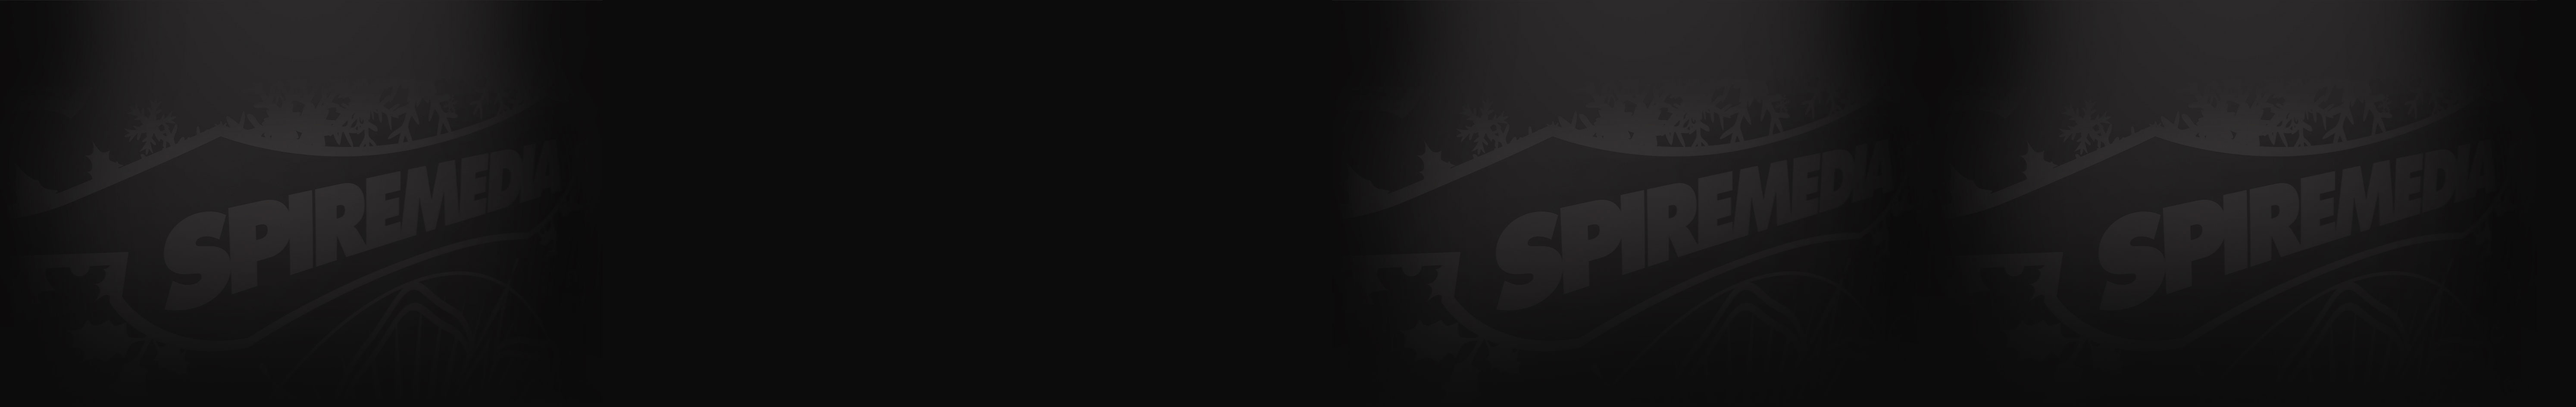
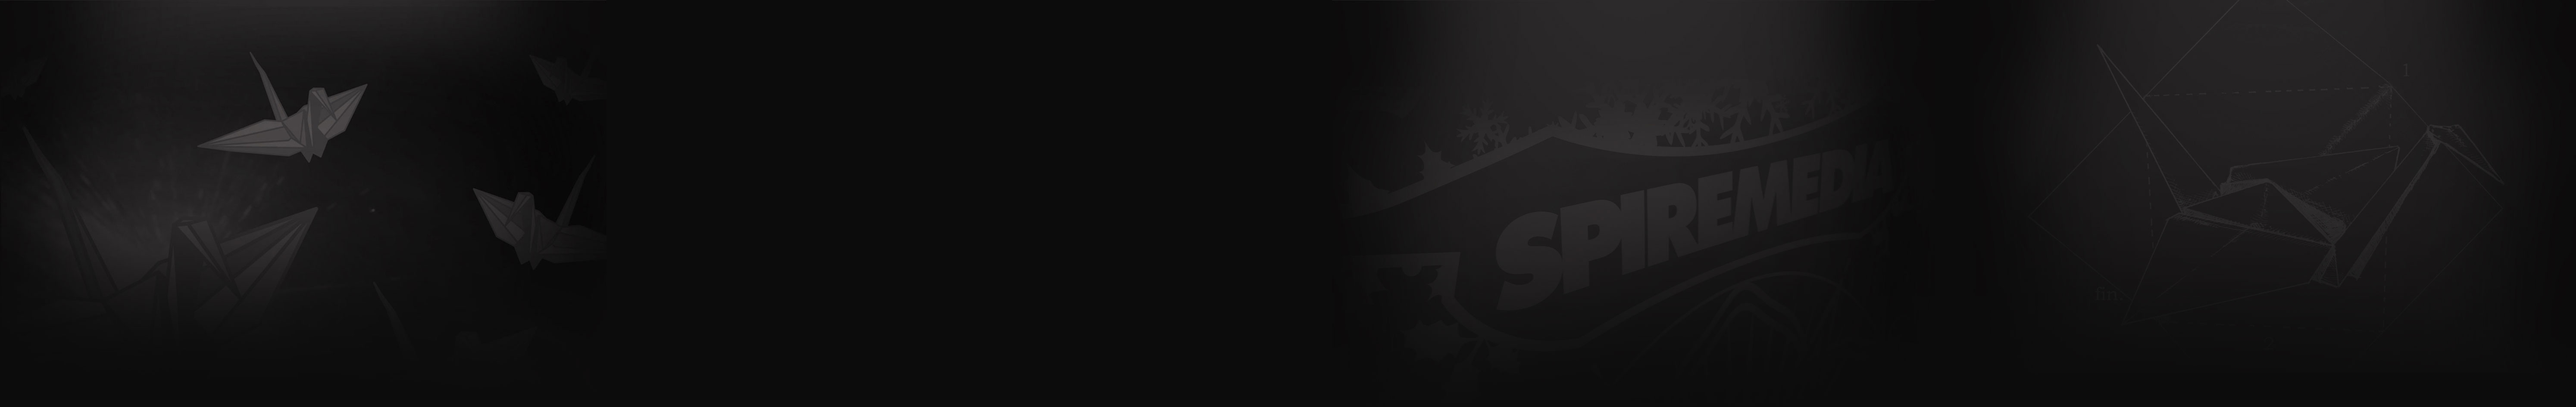
Committing the news page now that it is working.  had to add in easing js and css.

Changed region(s): [[0.0622, 0.2146, 0.1867, 0.3985], [0.1867, 0.5211, 0.2179, 0.5518]]

diff --git a/client/trunk/ui/css/coda-slider-2.0.css b/client/trunk/ui/css/coda-slider-2.0.css
@@ -1,0 +1,51 @@
+/*
+	jQuery Coda-Slider v2.0 - http://www.ndoherty.biz/coda-slider
+	Copyright (c) 2009 Niall Doherty
+	This plugin available for use in all personal or commercial projects under both MIT and GPL licenses.
+*/
+
+/* Insignificant stuff, for demo purposes */
+	noscript div { background: #ccc; border: 1px solid #900; margin: 20px 0; padding: 15px }
+
+/* Most common stuff you'll need to change */
+
+	.coda-slider-wrapper {  }
+	.coda-slider { }
+	
+	/* Use this to keep the slider content contained in a box even when JavaScript is disabled */
+	.coda-slider-no-js .coda-slider { height: 200px; overflow: auto !important; padding-right: 20px }
+	
+	/* Change the width of the entire slider (without dynamic arrows) */
+	.coda-slider, .coda-slider .panel { } 
+	
+	/* Change margin and width of the slider (with dynamic arrows) */
+	.coda-slider-wrapper.arrows .coda-slider, .coda-slider-wrapper.arrows .coda-slider .panel { width:935px;}
+	.coda-slider-wrapper.arrows .coda-slider {}
+	
+	/* Arrow styling */
+	.coda-nav-left a, .coda-nav-right a { background: #000; color: #fff; padding: 5px; width: 100px; display:none;}
+	
+	/* Tab nav */
+	.coda-nav ul li a.current { }
+	
+	/* Panel padding */
+	.coda-slider .panel-wrapper { padding: 0 }
+	
+	/* Preloader */
+	.coda-slider p.loading { padding: 20px; text-align: center }
+
+/* Don't change anything below here unless you know what you're doing */
+
+	/* Tabbed nav */
+	.coda-nav ul { clear: both; display: block; margin: auto; overflow: hidden; display:none;}
+	.coda-nav ul li { display: inline }
+	.coda-nav ul li a { background: #000; color: #fff; display: block; float: left; margin-right: 1px; padding: 3px 6px; text-decoration: none }
+	
+	/* Miscellaneous */
+	.coda-slider-wrapper { clear: both; overflow: auto }
+	.coda-slider { float: left; overflow: hidden; position: relative }
+	.coda-slider .panel { display: block; float: left }
+	.coda-slider .panel-container { position: relative }
+	.coda-nav-left, .coda-nav-right { float: left; display:none; }
+	.coda-nav-left a, .coda-nav-right a { display: block; text-align: center; text-decoration: none }
+	

diff --git a/client/trunk/ui/css/styles.css b/client/trunk/ui/css/styles.css
@@ -225,7 +225,7 @@ box-shadow: 0 0 5px 5px #000;}
 /* ~~ MAIN (WHATWEDO) ~~ */
 #mainWhat{ width:100%; background: #0c0c0c;} /* background:url(/ui/images/bg_main-what.jpg) top center*/
 .bg0 { width:1398px; z-index:100;background:url(/ui/images/bg_main-what1.jpg) top center;}
-.bg1 {width:1398px; z-index:99;background:url(/ui/images/bg_main-what2.jpg) top center;}
+.bg1 {width:1398px; z-index:99;background:url(/ui/images/bg_uxdesign.jpg) top center;}
 .bg2 { width:1398px; z-index:99;background:url(/ui/images/bg_main-what3.jpg) top center;}
 .bg3 {  width:1398px; z-index:99;background:url(/ui/images/bg_main-what4.jpg) top center;}
 .bg4 {  width:1398px; z-index:99;background:url(/ui/images/bg_main_what5.jpg) top center;}
@@ -851,8 +851,9 @@ line-height: 32px; text-decoration:none; cursor:pointer;}
 .popupWeb .ww-social { bottom:7px;}
 
 /****MAIN WHO WE ARE 2***/
-#mainWho2{background:url(/ui/images/bg_whoweare.jpg) top;}
-#mwwa2 { position:relative; width:7444px; height:auto; background:url(/ui/images/bg_whoweare.jpg) top center;} /* demo 2000 container or list elements or floats*/
+#mainWho2{ background:url(/ui/images/bg_whoweare.jpg) top  #0c0c0c;}
+#mainwwa{background:url(/ui/images/bgg_main-grid.png) transparent;}
+#mwwa2 { position:relative; width:7444px; height:auto;} /* demo 2000 container or list elements or floats*/
 .mwwa2-slide1 { float:left; width:1328px; padding:20px 0 40px 70px;}/* 1398 original */
 .mwwa2-slide2 { float:left; width:1958px; padding:60px 0 40px 90px;}/* 2048 original */
 .mwwa2-slide3 { float:left; width:2500px; padding:60px 0 40px 100px;}
@@ -871,3 +872,17 @@ line-height: 32px; text-decoration:none; cursor:pointer;}
 }
 
 .accordion-width{width:297px;}
+
+.clearfix:after {
+    clear: both;
+    content: ".";
+    display: block;
+    height: 0;
+    visibility: hidden;
+}
+* html .clearfix {
+    height: 1%;
+}
+:first-child + html .clearfix {
+    min-height: 1%;
+}
